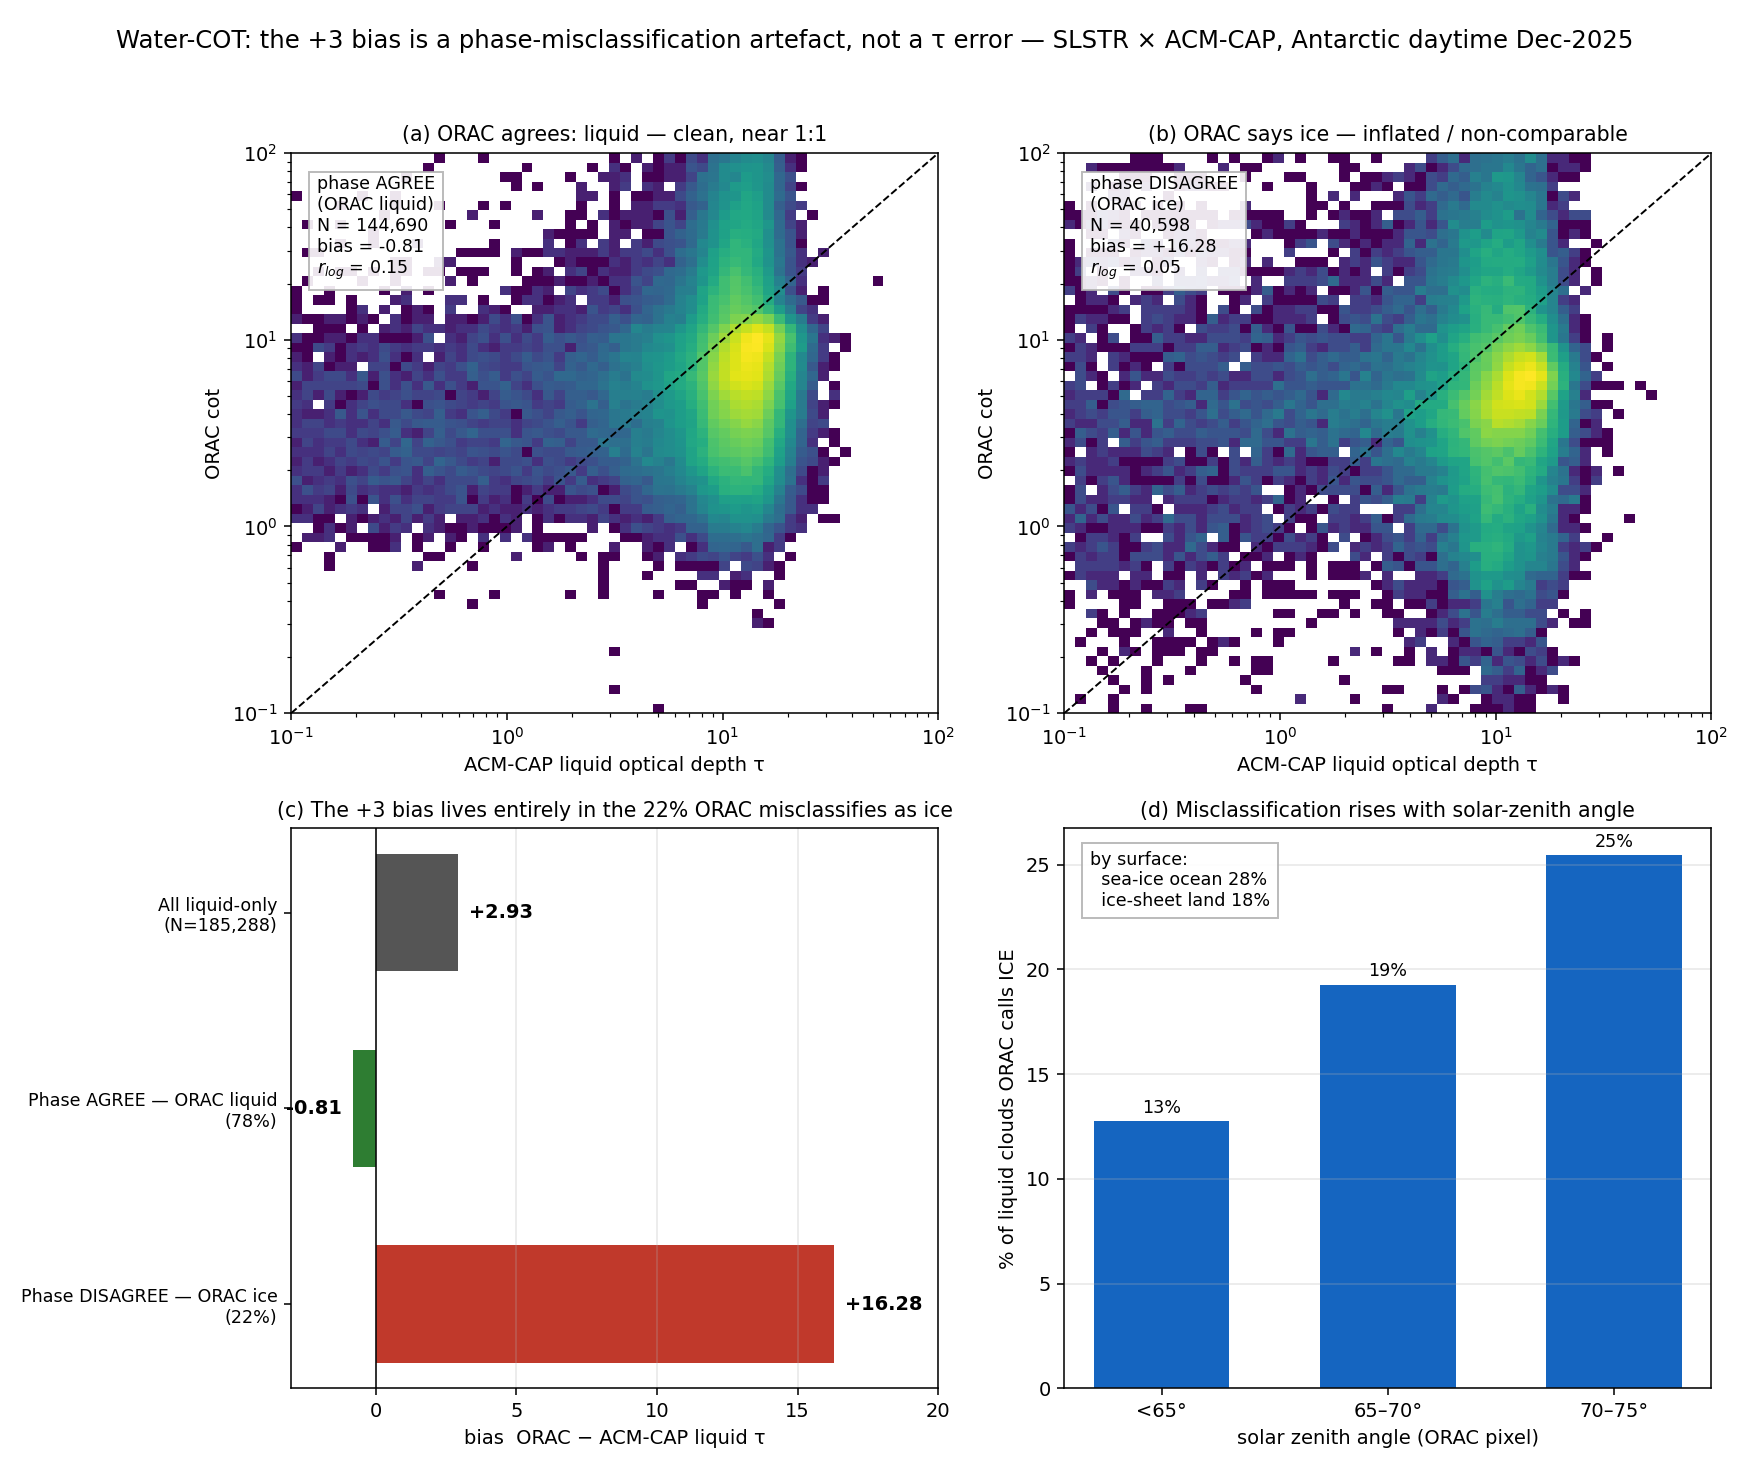
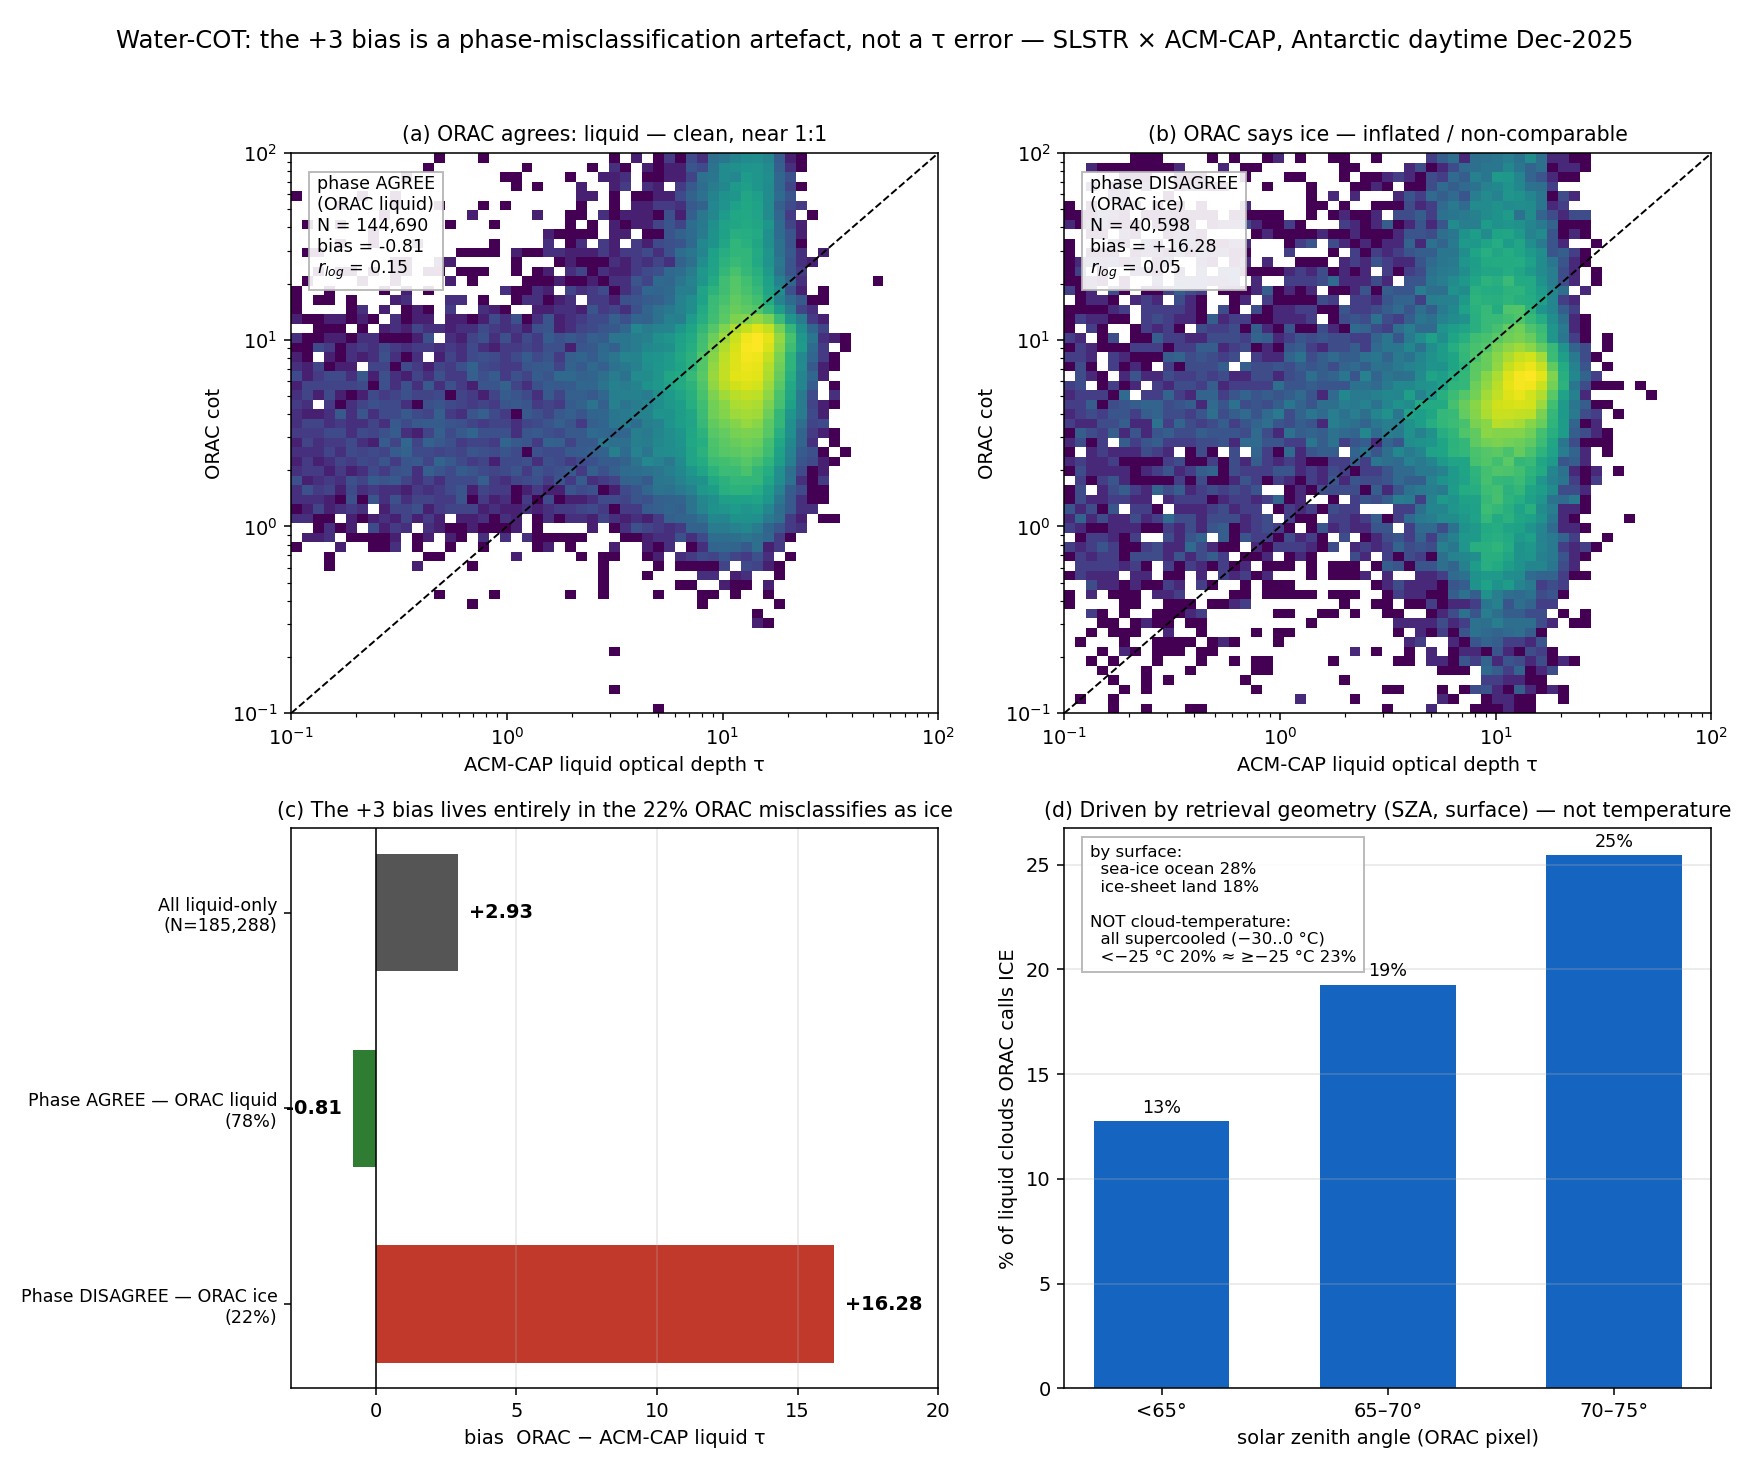
slstr(cot-water): phase-mismatch cause is retrieval geometry, not temperature
Augmented matches with ORAC cloud-top temperature (scripts/slstr_augment_ctt.py):
the misclassified clouds are ALL supercooled (-30..0 C) and the rate is flat
across that range (20% vs 23%) -- so it is NOT a cold-top-read-as-ice effect.
Misclassification tracks retrieval difficulty instead: doubles with solar-zenith
(13->25%) and worse over sea-ice (28%) than ice-sheet (18%). Figure panel (d)
now shows the geometry drivers with the temperature control; report corrected.

Changed region(s): [[0.6171, 0.5204, 0.8023, 0.6735], [0.8949, 0.551, 0.9257, 0.5816], [0.8331, 0.551, 0.864, 0.5816]]

diff --git a/scripts/slstr_augment_ctt.py b/scripts/slstr_augment_ctt.py
@@ -1,0 +1,87 @@
+"""Augment the water-COT day matches with ORAC cloud-top temperature (ctt),
+sampled at each matched SLSTR pixel, to test whether phase misclassification is
+driven by cloud-top temperature (cold tops read as ice).
+
+Groups matched rows by their source granule (via the pixel_key encoded in
+sev_pixel_id), opens each granule once, and samples ctt at the stored
+(along_track, across_track) indices. Writes the filtered + augmented frame to the
+scratchpad for the figure step.
+"""
+from __future__ import annotations
+
+import glob
+import sys
+from pathlib import Path
+
+sys.path.insert(0, str(Path(__file__).resolve().parent.parent))
+
+import numpy as np
+import pandas as pd
+
+from orac.slstr import discover_granules, open_granule
+
+SLSTR_ROOT = "/gws/ssde/j25a/cloud_ecv/data_out/slstr/v5.1_new_snowice/slstra/l2b"
+OUT = ("/tmp/claude-7051641/-gws-pw-j07-nceo-aerosolfire-rsong-project-cloud-cci/"
+       "3a1e8f12-6f9c-4529-9d79-b8ab9052e120/scratchpad/cotw_phase_ctt.parquet")
+NCOLS = 1500
+PIX_PER_GRAN = 1200 * 1500
+
+
+def main() -> int:
+    cols = ["valid_match", "quality_status_atlid", "cot_orac", "cot_water_atlid",
+            "phase_orac", "liquid_only_atlid", "cldmask_orac", "lsflag_orac",
+            "sza_orac", "ec_lat", "sev_along_track", "sev_across_track", "sev_pixel_id"]
+    paths = sorted(glob.glob("validation_data/slstr_synergy_2025-12_day/matches_synergy_*.csv"))
+    d = pd.concat([pd.read_csv(p, usecols=lambda c: c in cols) for p in paths],
+                  ignore_index=True)
+    m = ((d["valid_match"] == True) & (d["quality_status_atlid"] == 0)
+         & (d["liquid_only_atlid"] == True) & (d["cldmask_orac"] == 1)
+         & np.isfinite(d["cot_orac"]) & np.isfinite(d["cot_water_atlid"])
+         & (d["cot_orac"] > 0) & (d["cot_water_atlid"] > 0)
+         & (d["sev_pixel_id"] >= 0))
+    d = d[m].copy()
+    d["pixkey"] = (d["sev_pixel_id"] // PIX_PER_GRAN).astype(np.int64)
+    print(f"filtered liquid-only profiles: {len(d)}, unique granules: {d['pixkey'].nunique()}")
+
+    # map pixel_key (YYYYMMDDHHMM int) -> granule
+    grans = discover_granules(SLSTR_ROOT,
+                              __import__("datetime").datetime(2025, 12, 1),
+                              __import__("datetime").datetime(2026, 1, 1))
+    gmap = {int(g.start_time.strftime("%Y%m%d%H%M")): g for g in grans}
+
+    d["ctt_orac"] = np.nan
+    ok = 0
+    for pk, grp in d.groupby("pixkey"):
+        g = gmap.get(int(pk))
+        if g is None:
+            continue
+        try:
+            ds = open_granule(g, variables=("ctt",))
+            ctt = np.asarray(ds["ctt"].squeeze(drop=True).values)
+            ds.close()
+        except Exception:
+            continue
+        at = grp["sev_along_track"].astype(int).values
+        ac = grp["sev_across_track"].astype(int).values
+        inb = (at >= 0) & (at < ctt.shape[0]) & (ac >= 0) & (ac < ctt.shape[1])
+        vals = np.full(len(grp), np.nan)
+        vals[inb] = ctt[at[inb], ac[inb]]
+        d.loc[grp.index, "ctt_orac"] = vals
+        ok += 1
+    print(f"sampled ctt from {ok} granules; ctt finite: {np.isfinite(d['ctt_orac']).mean()*100:.0f}%")
+    d.to_parquet(OUT)
+    # quick look: misclassification vs ctt
+    dd = d[np.isfinite(d["ctt_orac"])].copy()
+    dd["ice"] = dd["phase_orac"] == 2
+    dd["ctb"] = pd.cut(dd["ctt_orac"] - 273.15,
+                       [-60, -30, -20, -10, 0, 40],
+                       labels=["<−30", "−30..−20", "−20..−10", "−10..0", ">0 °C"])
+    print("\nmisclassification (% ORAC=ice) vs cloud-top temperature:")
+    for b, x in dd.groupby("ctb", observed=True):
+        print(f"  {str(b):>10} °C: {100*x['ice'].mean():5.1f}%  (N={len(x)})")
+    print(f"\nwrote {OUT}")
+    return 0
+
+
+if __name__ == "__main__":
+    raise SystemExit(main())

diff --git a/scripts/slstr_cot_water_phase_figure.py b/scripts/slstr_cot_water_phase_figure.py
@@ -21,7 +21,7 @@ import pandas as pd
 from matplotlib.colors import LogNorm
 
 SCRATCH = ("/tmp/claude-7051641/-gws-pw-j07-nceo-aerosolfire-rsong-project-cloud-cci/"
-           "3a1e8f12-6f9c-4529-9d79-b8ab9052e120/scratchpad/cotw_phase.parquet")
+           "3a1e8f12-6f9c-4529-9d79-b8ab9052e120/scratchpad/cotw_phase_ctt.parquet")
 OUT = Path("figures/slstr_cot_water_2025-12")
 
 
@@ -91,10 +91,20 @@ def main() -> int:
         axd.text(i, v + 0.4, f"{v:.0f}%", ha="center", fontsize=9)
     oc = 100 * d.loc[d["lsflag_orac"] < 0.5, "ice"].mean()
     la = 100 * d.loc[d["lsflag_orac"] >= 0.5, "ice"].mean()
-    axd.text(0.04, 0.96, f"by surface:\n  sea-ice ocean {oc:.0f}%\n  ice-sheet land {la:.0f}%",
-             transform=axd.transAxes, va="top", ha="left", fontsize=9,
+    # control: NOT driven by cloud-top temperature (all clouds supercooled)
+    ct_note = ""
+    if "ctt_orac" in d.columns:
+        cc = d[np.isfinite(d["ctt_orac"])].copy()
+        cc["ice"] = cc["phase_orac"] == 2
+        cold = 100 * cc.loc[cc["ctt_orac"] - 273.15 < -25, "ice"].mean()
+        warm = 100 * cc.loc[(cc["ctt_orac"] - 273.15 >= -25), "ice"].mean()
+        ct_note = (f"\n\nNOT cloud-temperature:\n  all supercooled (−30..0 °C)\n"
+                   f"  <−25 °C {cold:.0f}% ≈ ≥−25 °C {warm:.0f}%")
+    axd.text(0.04, 0.97, f"by surface:\n  sea-ice ocean {oc:.0f}%\n  ice-sheet land {la:.0f}%"
+             + ct_note, transform=axd.transAxes, va="top", ha="left", fontsize=8.5,
              bbox=dict(fc="white", ec="0.7", alpha=0.9))
-    axd.set_title("(d) Misclassification rises with solar-zenith angle", fontsize=10.5)
+    axd.set_title("(d) Driven by retrieval geometry (SZA, surface) — not temperature",
+                  fontsize=10.5)
     axd.grid(axis="y", alpha=0.3)
 
     fig.suptitle("Water-COT: the +3 bias is a phase-misclassification artefact, "

diff --git a/docs/reports/slstr_cot_water_2025-12.md b/docs/reports/slstr_cot_water_2025-12.md
@@ -105,11 +105,16 @@ qc_strict, daytime profiles (N = 185 288):
 - **(c)** The all-stratum +2.93 is just the weighted mean:
   0.78 × (−0.81) + 0.22 × (+16.3) ≈ +2.9 — **the entire bias is carried by the
   22 % misclassified subset**.
-- **(d) What drives the misclassification** — it is a physically-expected polar
-  failure of passive phase discrimination: the rate **more than doubles with
+- **(d) What drives the misclassification — retrieval geometry, not cloud
+  temperature.** Augmenting the matches with ORAC cloud-top temperature shows
+  these are *all* supercooled-liquid clouds (−30 to 0 °C), and the
+  misclassification rate is **flat across that range** (20 % below −25 °C ≈ 23 %
+  above) — so it is **not** a "cold top read as ice" effect. Instead it tracks
+  where the passive retrieval is *hardest*: the rate **more than doubles with
   solar-zenith angle** (13 % at SZA < 65° → 25 % at 70–75°) and is worse over
-  **sea-ice ocean (28 %)** than the ice sheet (18 %). Cold supercooled-liquid
-  cloud tops at low sun are read as ice.
+  bright **sea-ice ocean (28 %)** than the ice sheet (18 %). It is a low-sun /
+  bright-surface retrieval-difficulty effect on a genuinely supercooled-liquid
+  population.
 
 **Conclusion:** ORAC's **liquid** τ retrieval is accurate here (−0.81); the
 headline +3 is a **phase-classification** limitation, not an optical-depth error.
